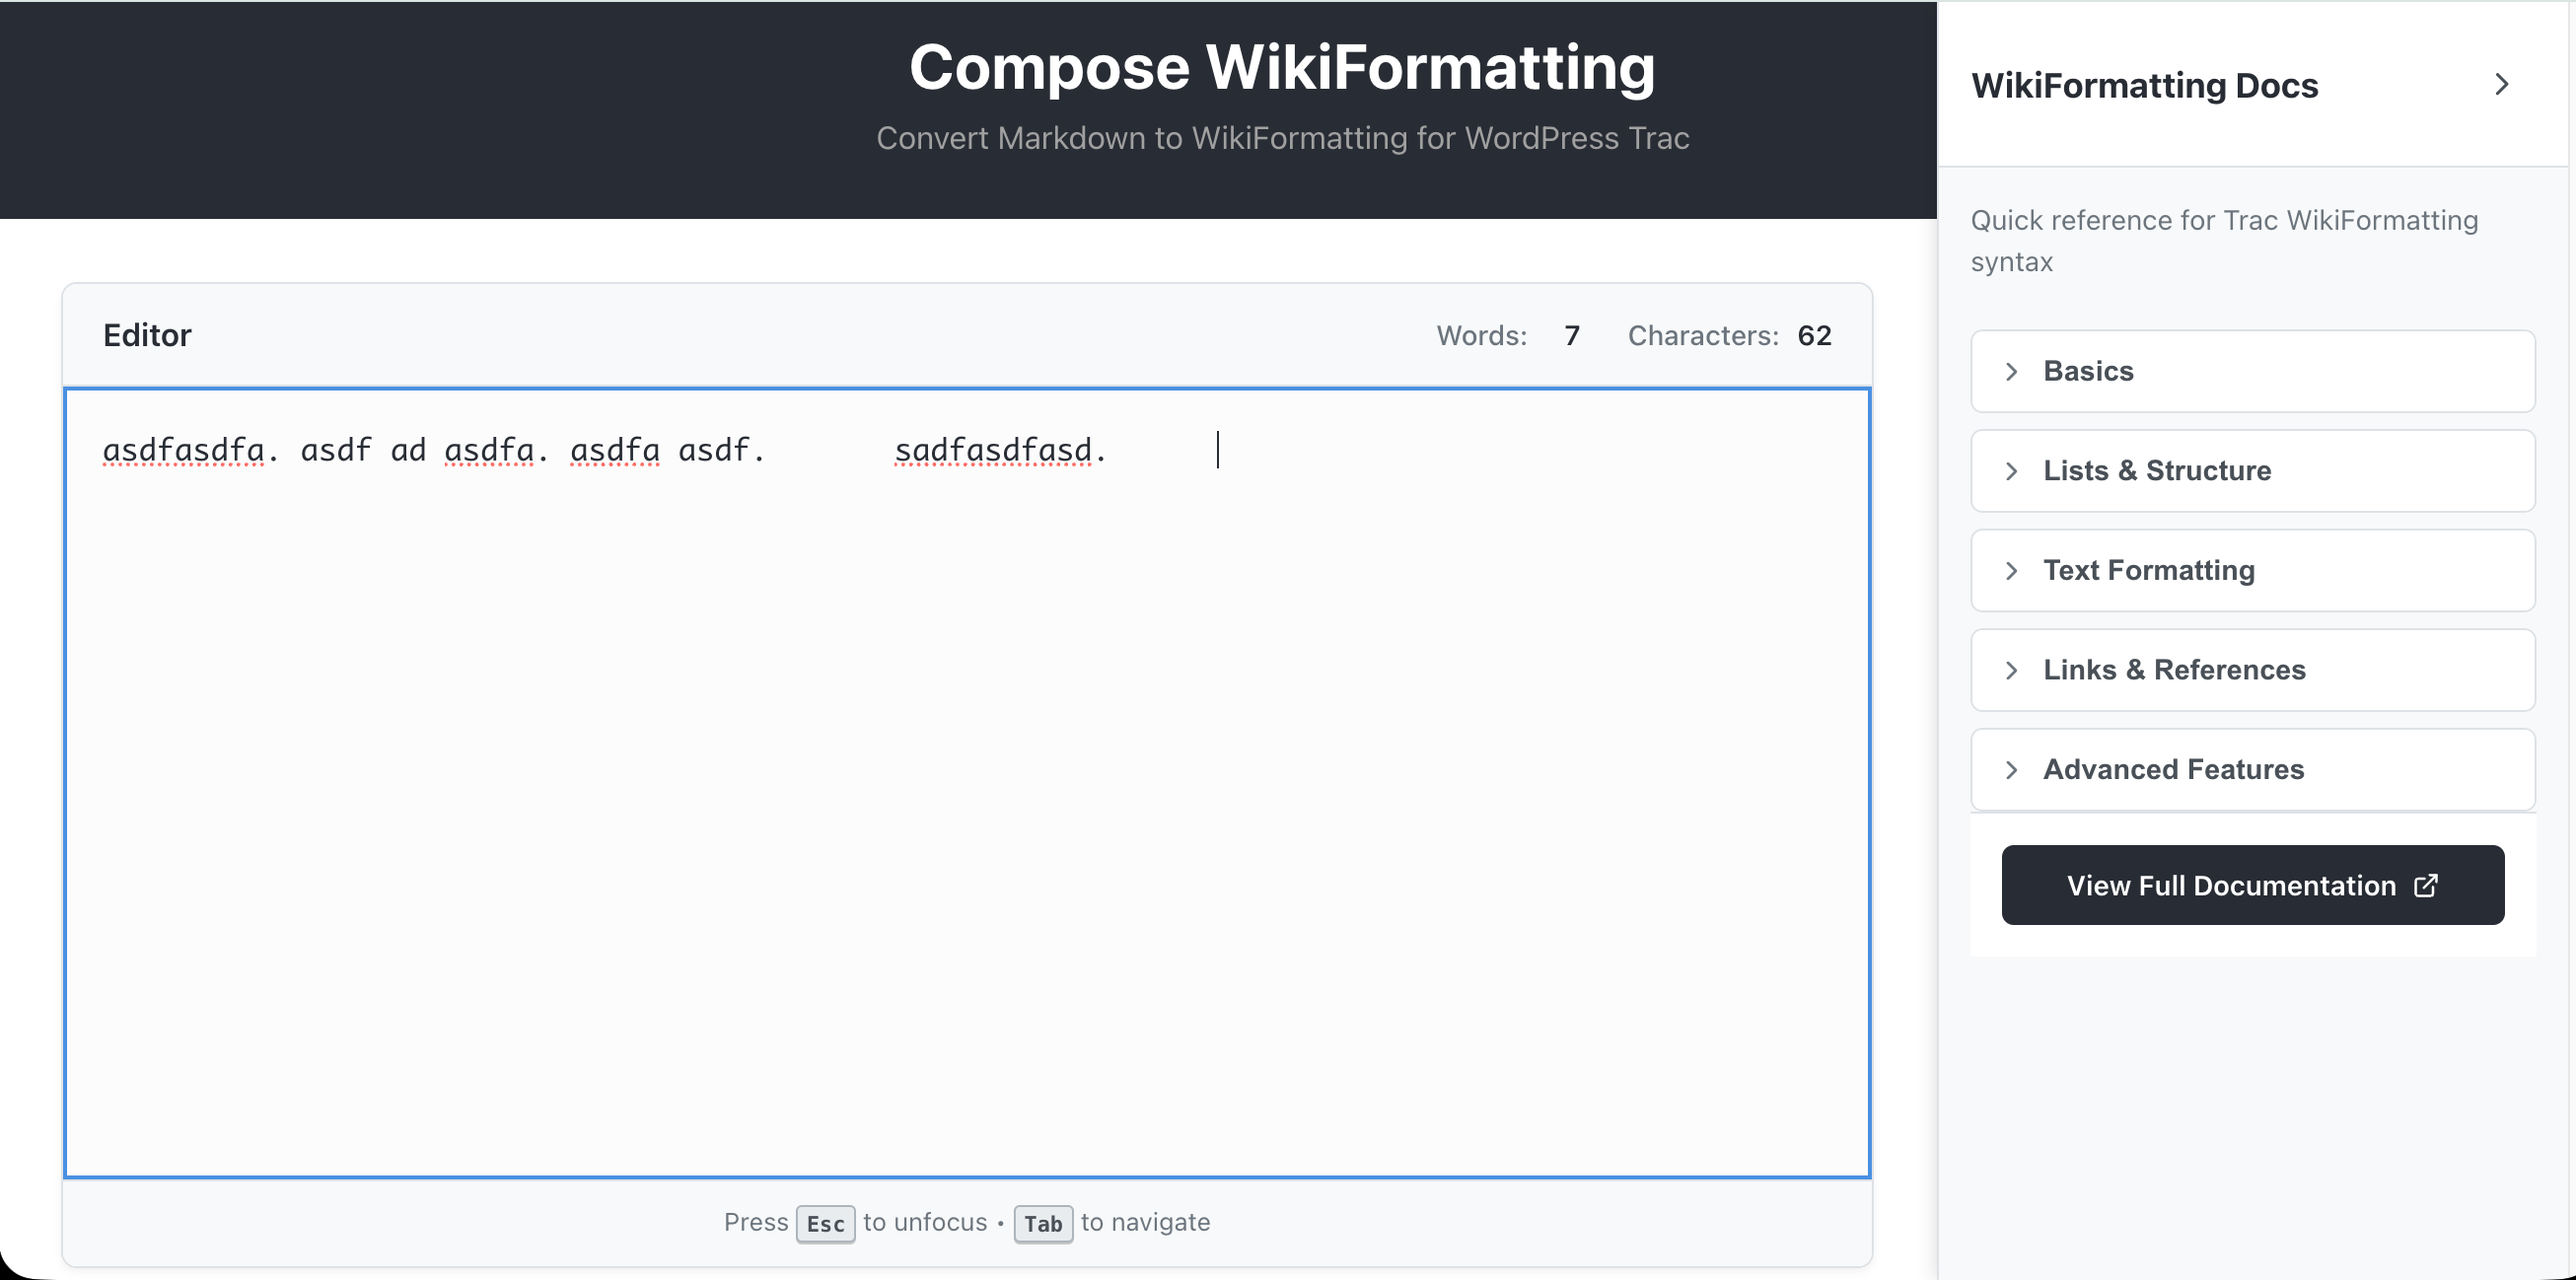
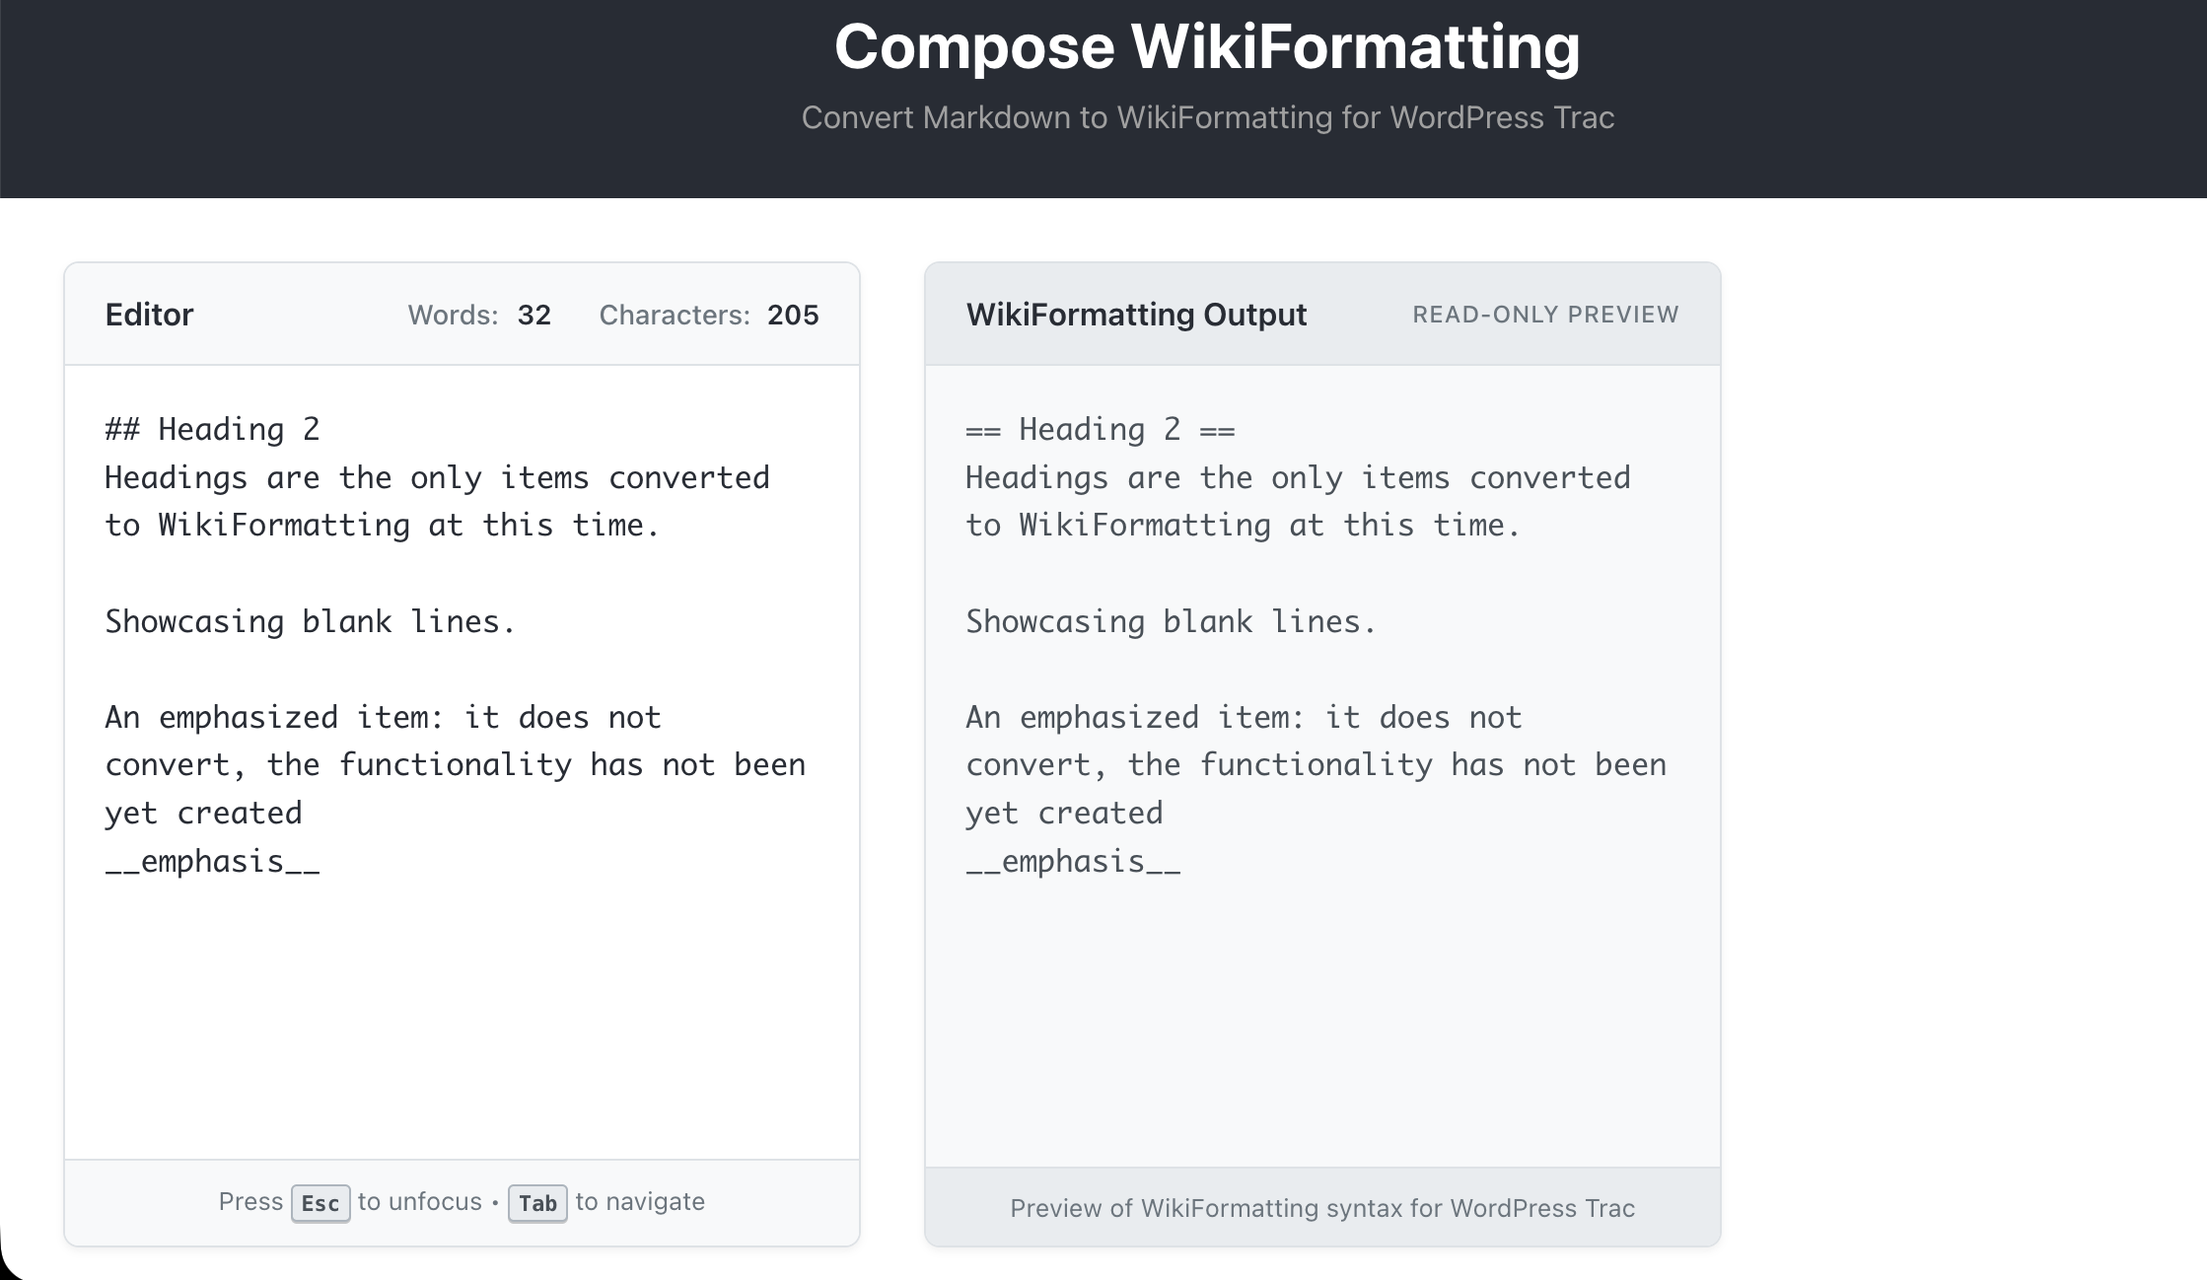
docs: Update CHANGELOG and screenshot for Phase 1 completion
Update planned phases to reflect new Phase 2 (WikiFormatting Renderer)
and renumber subsequent phases 3-9.

Add updated screenshot showing Phase 1 side-by-side Editor and Preview.

diff --git a/CHANGELOG.md b/CHANGELOG.md
@@ -50,13 +50,14 @@ and this project adheres to [Semantic Versioning](https://semver.org/spec/v2.0.0
 - Defense-in-depth: escaping at converter level + React's built-in XSS protection
 
 ### Planned
-- Phase 2: Text Formatting conversion (bold, italic, code)
-- Phase 3: Lists conversion
-- Phase 4: Links conversion
-- Phase 5: Code blocks conversion
-- Phase 6: Blockquotes conversion
-- Phase 7: Tables conversion
-- Phase 8: Images conversion
+- Phase 2: WikiFormatting Renderer (parse WikiFormatting to HTML, 3-column layout)
+- Phase 3: Text Formatting conversion (bold, italic, code)
+- Phase 4: Lists conversion
+- Phase 5: Links conversion
+- Phase 6: Code blocks conversion
+- Phase 7: Blockquotes conversion
+- Phase 8: Tables conversion
+- Phase 9: Images conversion
 - LocalStorage persistence for editor content
 - Debounced update (3-second delay)
 - Keyboard shortcuts (Tab, Escape, CMD+S)
